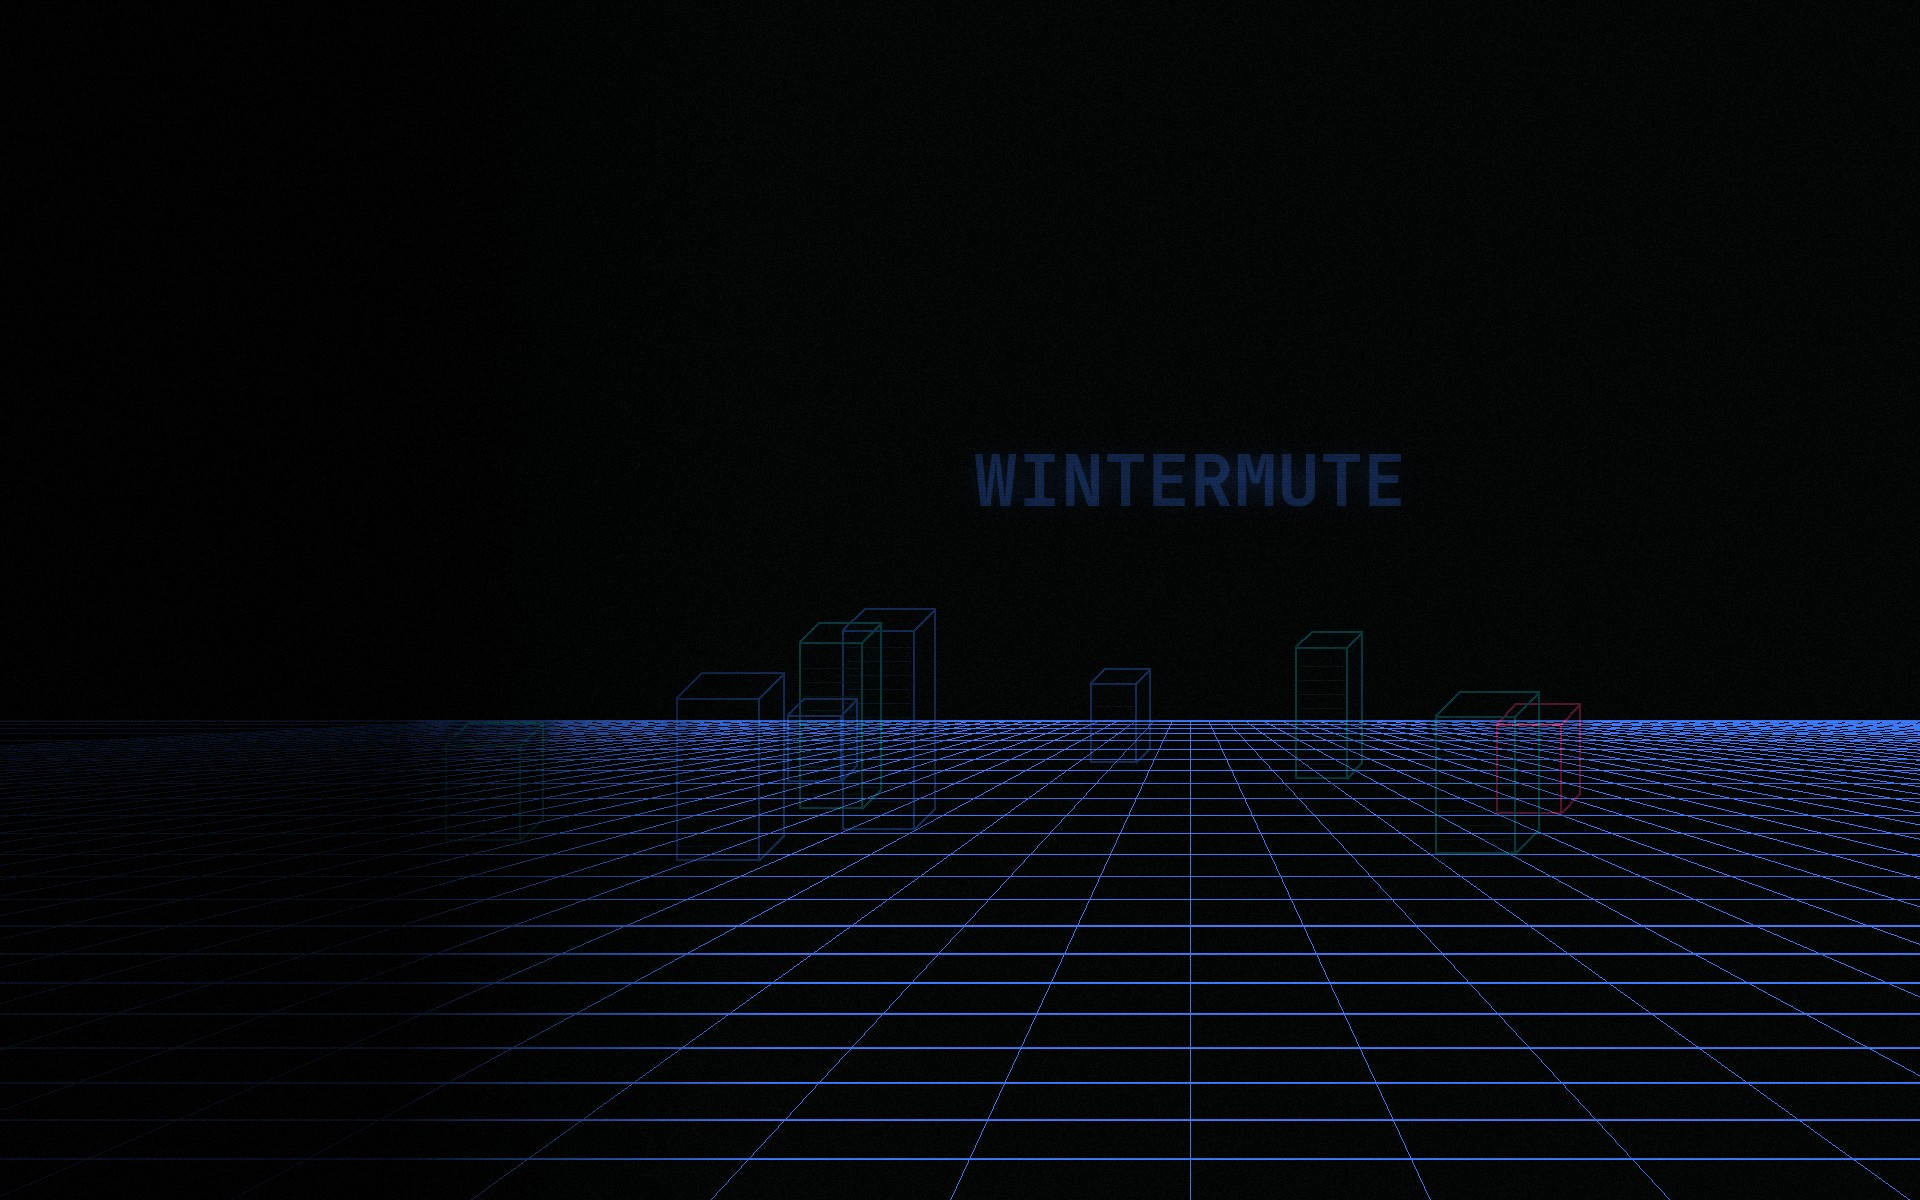
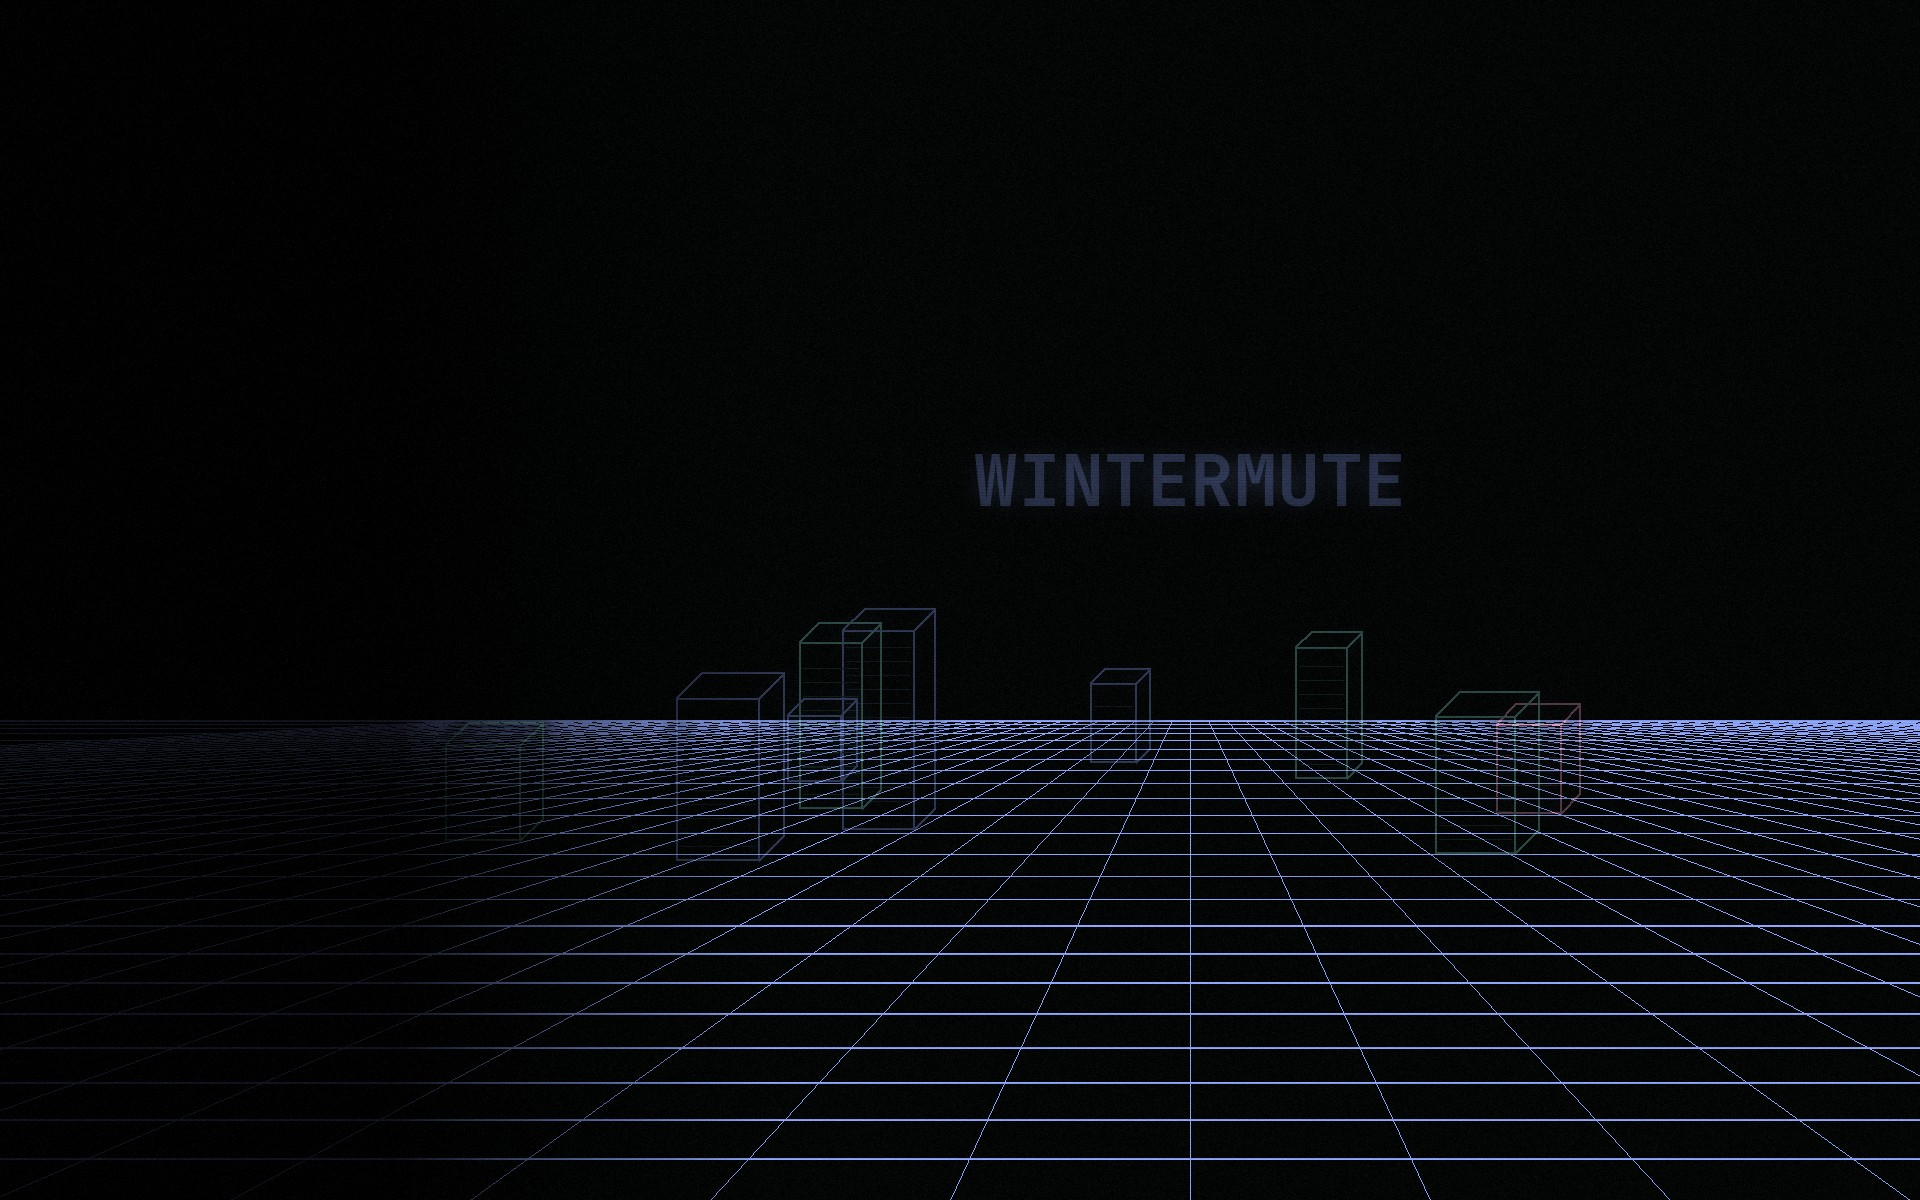
Neuromancer in pastel
The Apple TV series' colours softened: periwinkle accent (#8FA8FF),
soft pink gradient end (#FFA8CF), sea-glass teal (#86D9D0), lavender and
peach, on a dusty indigo night with silver text. The art follows (a
lighter, softer sky wash; pastel grid, neon and ICE towers).

diff --git a/tools/make-neuromancer-art.py b/tools/make-neuromancer-art.py
@@ -19,9 +19,9 @@ from PIL import Image, ImageDraw, ImageFilter, ImageFont
 REPO = os.path.dirname(os.path.dirname(os.path.abspath(__file__)))
 OUT = sys.argv[1] if len(sys.argv) > 1 else os.path.join(REPO, "assets")
 
-# the Apple TV series' colours: electric blue and indigo, petrol teal, a pink neon; GREEN now names the grid colour (electric blue)
-BG, FG = (8, 9, 14), (216, 226, 240)
-GREEN, GREEN_B, MAGENTA, AMBER, BLUE = (61, 123, 255), (159, 198, 255), (255, 61, 139), (255, 179, 71), (19, 165, 181)
+# the Apple TV series' colours in pastel: periwinkle, soft pink, sea-glass teal; GREEN names the grid colour (periwinkle)
+BG, FG = (14, 16, 24), (230, 236, 247)
+GREEN, GREEN_B, MAGENTA, AMBER, BLUE = (143, 168, 255), (201, 213, 255), (255, 168, 207), (255, 212, 154), (134, 217, 208)
 
 
 def font(names, size):
@@ -58,7 +58,7 @@ def dead_channel(w, h, top, rng):
     v[::3] *= 0.78
     # the series' wash: petrol teal near the horizon, indigo higher up
     t = np.linspace(0, 1, top)[:, None]
-    r, g, b = v * (0.42 + 0.10 * (1 - t)), v * (0.55 + 0.30 * t), v * (0.95 + 0.05 * t)
+    r, g, b = v * (0.62 + 0.14 * (1 - t)), v * (0.70 + 0.20 * t), v * (0.98 + 0.02 * t)   # pastel: a softer, lighter wash
     a = np.dstack([np.broadcast_to(r, v.shape), np.broadcast_to(g, v.shape), np.broadcast_to(b, v.shape)]).clip(0, 255).astype("uint8")
     return Image.fromarray(a)
 
